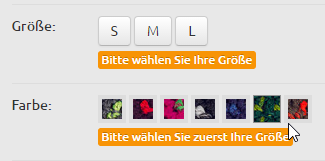
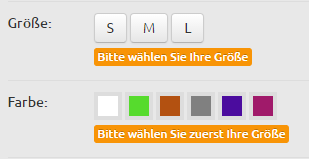
Updates assets/artikelvarianten_selectboxen.png
Auto commit by GitBook Editor

diff --git a/variantenset_anlegen.md b/variantenset_anlegen.md
@@ -9,7 +9,7 @@ Legen Sie zunächst ein neues Variantenset an.
 
 <br>
 ###### Füllen Sie die Felder wie folgt aus:
-* `Name` des Variantensets: Vergeben Sie hier einen Namen, der die entsprechenden Varianten widerspiegelt, also z.B. *Größe und Farbe*
+* `Name` des Variantensets: Vergeben Sie hier einen Namen, der die entsprechenden Varianten widerspiegelt, also z.B. *Merino: Farbe, Größe*
 * `Felder der Variante, deren Inhalt vom Hauptartikel abweichen darf`: Setzen Sie bei denjenigen Feldern, die variantenspezifisch sein dürfen, ein Häkchen. Die Werte dieser Felder dürfen also von denen des Parent-Artikels (=Hauptartikel) abweichen.
 
  ![](bild31.png)
